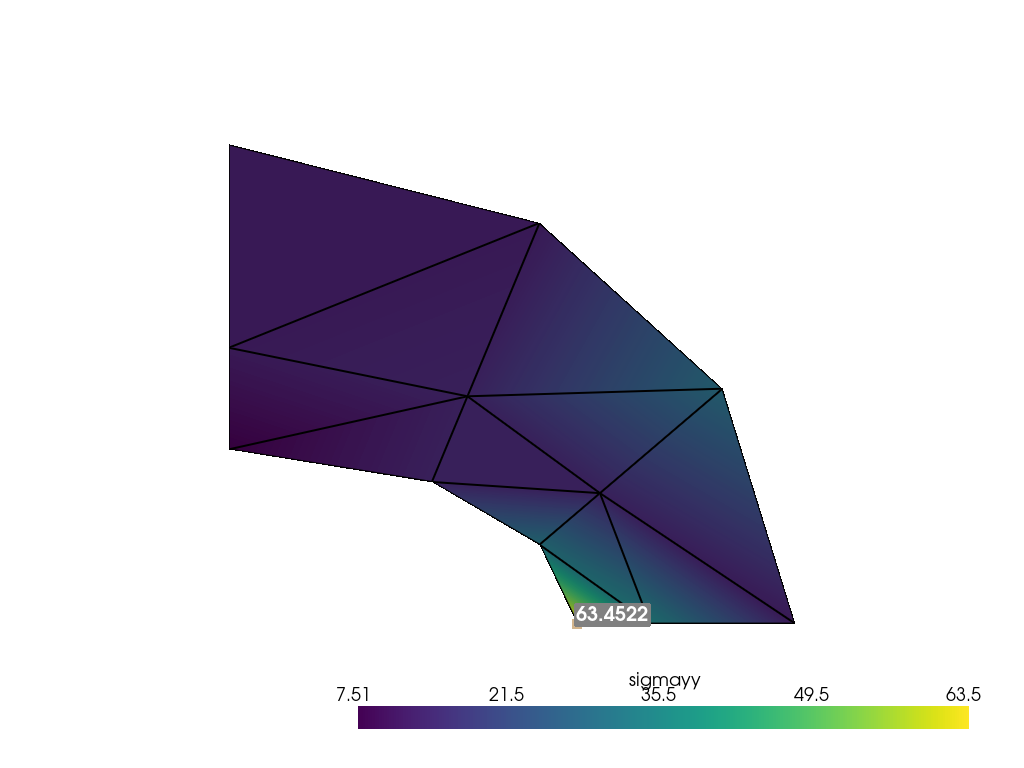
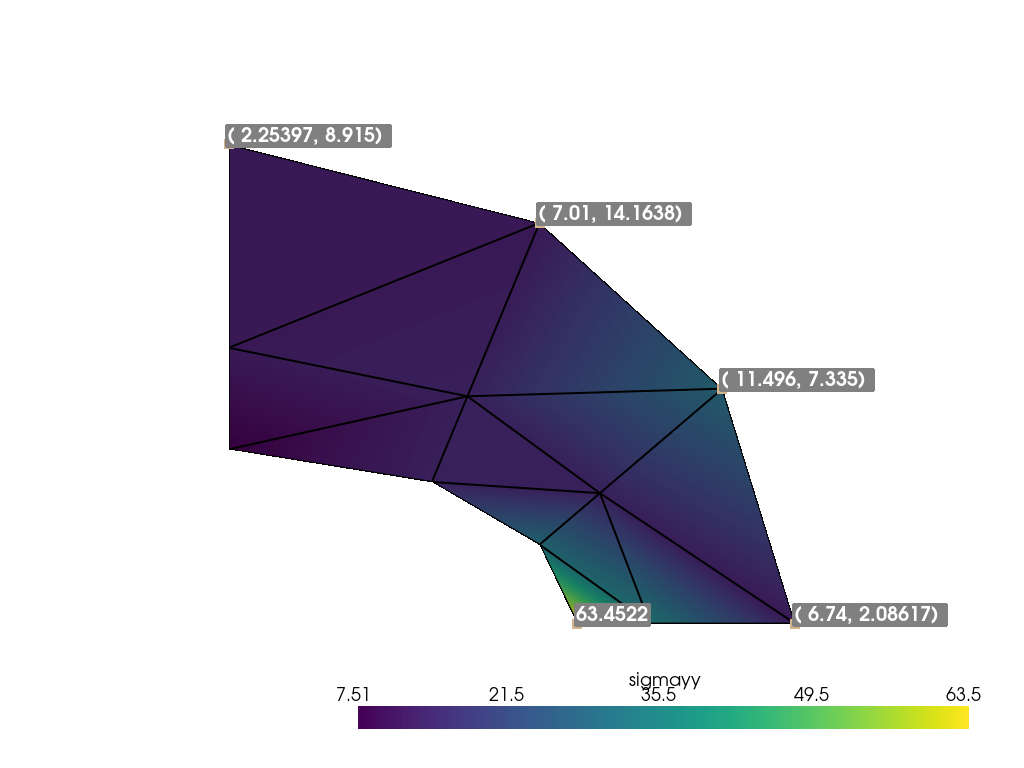
Add output to coarse-triangle-1d.py

diff --git a/benchmarks_data/structure/elliptic_membrane/GetFEM/coarse-triangle-1d.py b/benchmarks_data/structure/elliptic_membrane/GetFEM/coarse-triangle-1d.py
@@ -45,6 +45,8 @@ md.add_initialized_data("nu", nu)
 md.add_isotropic_linearized_elasticity_pstress_brick(mim, "u", "E", "nu")
 md.add_normal_source_term_brick(mim, "u", "NeumannData", OUTER_BOUND)
 # md.add_source_term(mim, "(Reshape(NeumannData,qdim(u),meshdim)*Normal).Test_u", OUTER_BOUND)
+md.assembly()
+RHS = md.rhs()
 md.add_initialized_data("r1", [0, 0])
 md.add_initialized_data("r2", [0, 0])
 md.add_initialized_data("H1", [[1, 0], [0, 0]])
@@ -59,16 +61,24 @@ md.solve()
 U = md.variable("u")
 grad_u = gf.compute_gradient(mfu, U, mfd)
 sigmayy = clambda * (grad_u[0, 0] + grad_u[1, 1]) + 2.0 * mu * grad_u[1, 1]
-mfu.export_to_vtk("coarse-triangle-1d.vtk", "ascii", mfd, sigmayy, "sigmayy")
+mfu.export_to_vtk(
+    "coarse-triangle-1d.vtk", "ascii", mfd, sigmayy, "sigmayy", mfu, RHS, "RHS"
+)
 
 m = pv.read("coarse-triangle-1d.vtk")
 pl = pv.Plotter()
 pl.add_mesh(m, show_edges=True, line_width=2, scalars="sigmayy")
 pl.add_point_labels(
-    m.points[np.all(m.points == [2.0, 0.0, 0.0], axis=1)],
-    [str(m["sigmayy"][np.all(m.points == [2.0, 0.0, 0.0], axis=1)][0])],
-    point_size=10,
-    font_size=20,
-    text_color="white",
+    m.points[0], [str(m["sigmayy"][0])], point_size=10, font_size=20, text_color="white"
 )
+
+for i in [8, 9, 10, 11]:
+    pl.add_point_labels(
+        m.points[i],
+        ["( " + str(m["RHS"][:, 0][i]) + ", " + str(m["RHS"][:, 1][i]) + ") "],
+        point_size=10,
+        font_size=20,
+        text_color="white",
+    )
+
 pl.show(cpos="xy", screenshot="coarse-triangle-1d.png")
